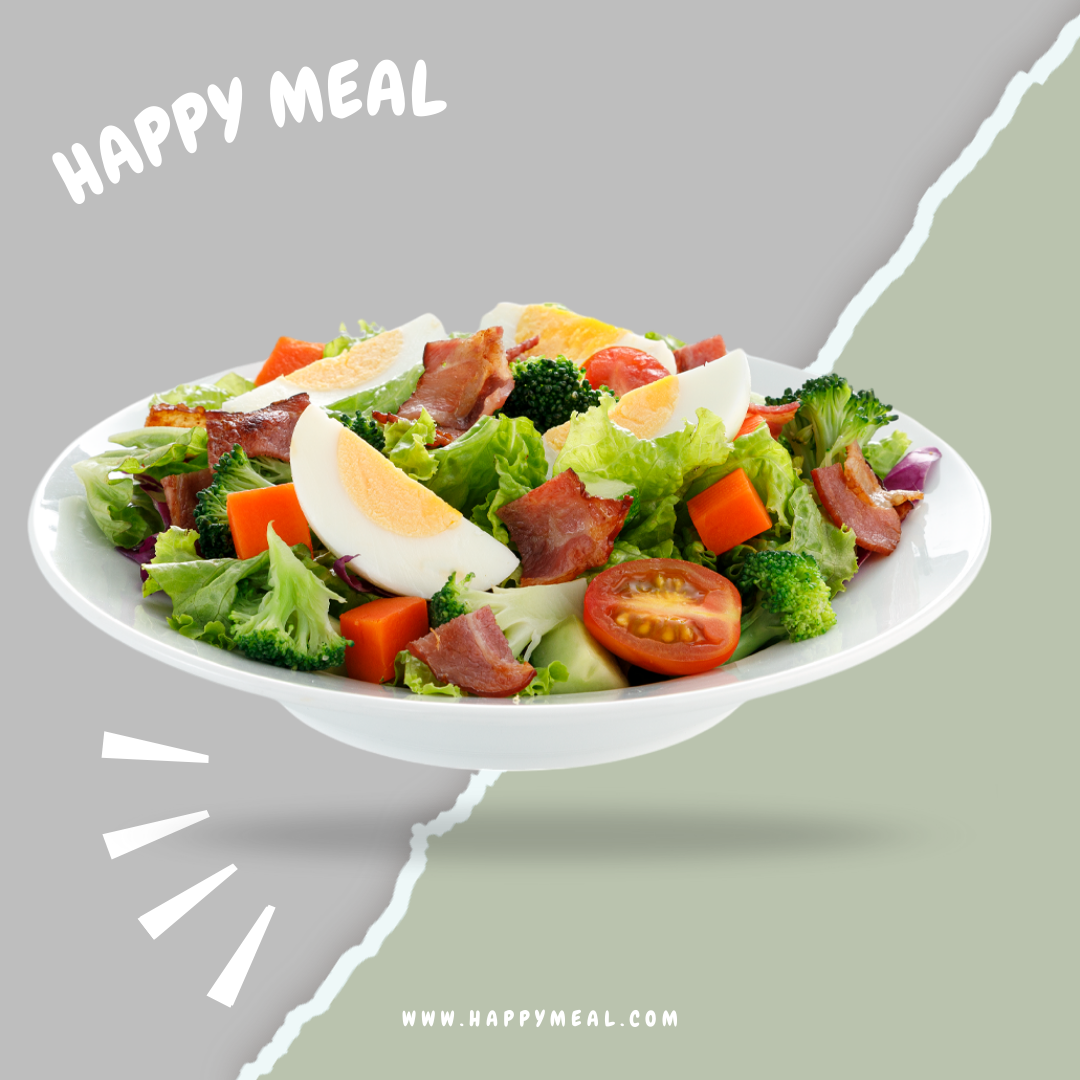
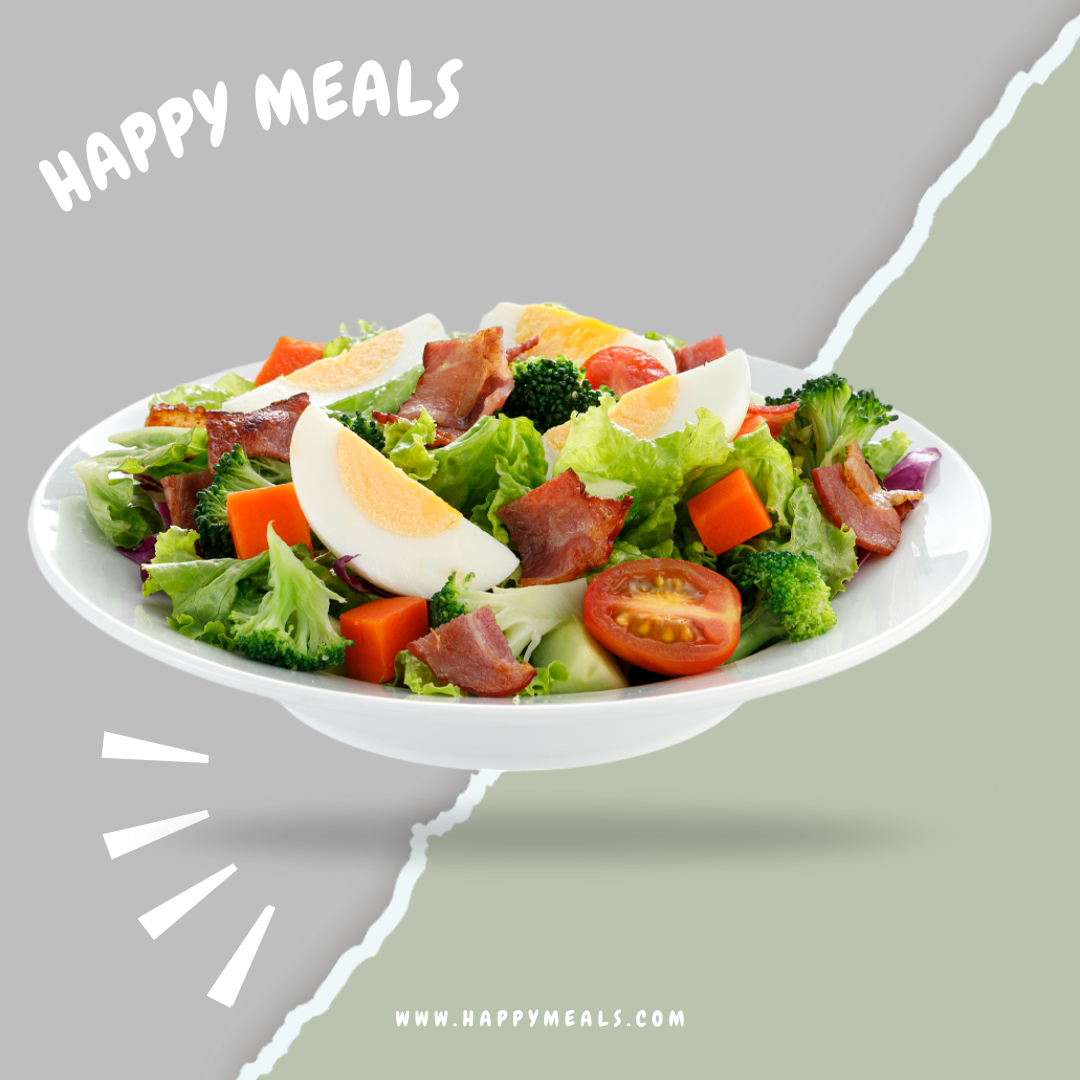
#3 update content HappyMeals

Changed region(s): [[0.0306, 0.0306, 0.4278, 0.2139], [0.3667, 0.9167, 0.6417, 0.9472]]

diff --git a/src/components/main.jsx b/src/components/main.jsx
@@ -12,14 +12,27 @@ const Home = () => {
             alt="Card"
             height={500}
           />
-          <div className="card-img-overlay d-flex align-items-center">
-            <div className="container">
-              <h5 className="card-title fs-1 text fw-lighter text-success fw-bold ">Hãy bắt đầu với thức ăn sạch</h5>
+          <div style={{
+              // justifyContent: 'flex-start',
+              width: '100%'
+            }} 
+            className="card-img-overlay justify-content-start d-flex  align-items-center">
+            <div 
+            style={{
+              maxWidth : '50%'
+            }} 
+            className="container">
+              <h5 className="card-title fs-1 text fw-lighter text-success fw-bold">Hãy bắt đầu với thức ăn sạch</h5>
               <p className="card-text fs-5 d-none text-black d-sm-block ">
-                This is a wider card with supporting text below as a natural
-                lead-in to additional content. This content is a little bit
-                longer.
+              Chúng tôi cung cấp những bữa ăn tươi ngon, giàu dinh dưỡng, giúp bạn sống khỏe mạnh mỗi ngày. Hãy bắt đầu hành trình ăn uống sạch sẽ cùng HappyMeals ngay hôm nay!
               </p>
+            </div>
+            <div 
+            style={{
+              maxWidth : '500px'
+            }} 
+            className="container">
+          
             </div>
           </div>
         </div>
@@ -29,3 +42,6 @@ const Home = () => {
 };
 
 export default Home;
+
+
+

diff --git a/src/components/Footer.jsx b/src/components/Footer.jsx
@@ -6,12 +6,12 @@ const Footer = () => {
       <footer className="mb-0 text-center">
         <div className="d-flex align-items-center justify-content-center pb-5">
           <div className="col-md-6">
-            <p className="mb-3 mb-md-0">Made with ❤ by {"Happy Meal "}
+            <p className="mb-3 mb-md-0">Made with ❤ by {"Happy Meals "}
               {/* <a  href="https://sahibsingh.dev" className="text-decoration-underline text-dark fs-5" target="_blank" rel="noreferrer">Sahib Singh</a> */}
             </p>
-            <a className="text-dark fs-4" href="https://github.com/ssahibsingh" target="_blank" rel="noreferrer">
-              {/* <i className="fa fa-github"></i> */}
-            </a>
+            {/* <a className="text-dark fs-4" href="https://github.com/ssahibsingh" target="_blank" rel="noreferrer">
+              <i className="fa fa-github"></i>
+            </a> */}
           </div>
         </div>
       </footer>

diff --git a/src/components/Navbar.jsx b/src/components/Navbar.jsx
@@ -7,7 +7,7 @@ const Navbar = () => {
     return (
         <nav className="navbar navbar-expand-lg navbar-light bg-light py-3 sticky-top">
             <div className="container">
-                <NavLink className="navbar-brand fw-bold fs-4 px-2" to="/"> Happy Meal</NavLink>
+                <NavLink className="navbar-brand fw-bold fs-4 px-2" to="/"> Happy Meals</NavLink>
                 <button className="navbar-toggler mx-2" type="button" data-toggle="collapse" data-target="#navbarSupportedContent" aria-controls="navbarSupportedContent" aria-expanded="false" aria-label="Toggle navigation">
                     <span className="navbar-toggler-icon"></span>
                 </button>
